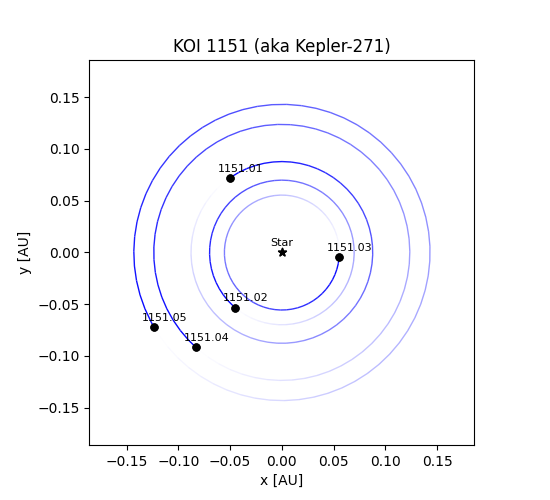
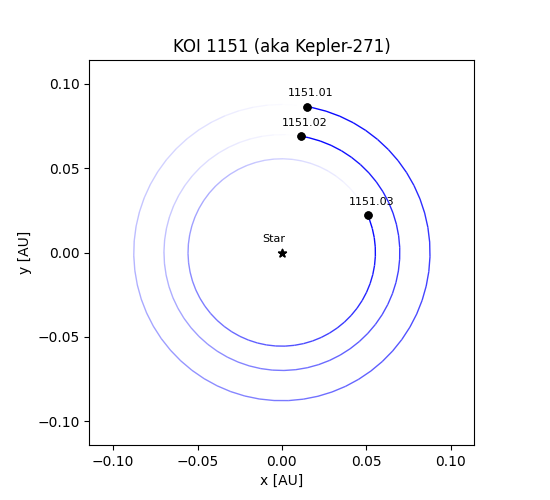
i don't know what's going on anymore and that's okay

diff --git a/Rebound1151.py b/Rebound1151.py
@@ -4,27 +4,33 @@ import matplotlib.pyplot as plt
 
 sim = rebound.Simulation()
 
-sim.units = ('yr','AU','Msun')
+Mearth = 1.0/332940.0
+GMsun = 1.3271244e20 # [m3 s-2]
+au = 149597870700.0 # [m]
+G = GMsun*(86400**2)/au**3 # au, days, Msun
+
+sim.units = ('days','AU','Msun')
+print(sim.G)
 
 #star/COM
 sim.add(m=0.83)
 #1151.03 // Start with innermost planet, go outwards
-sim.add(m=(0.672**3.7)/332946,P=5.24969846/365.2425,theta=8.875948944787911)
+sim.add(m=(0.672**3.7)/332946,P=5.24969846,theta=3.3755376844593314)
 #1151.02 // Period is in days, convert to years (Divide by 365.2425)
-sim.add(m=(0.948**3.7)/332946,P=7.41088006/365.2425,theta=8.45398854570443)
+sim.add(m=(0.948**3.7)/332946,P=7.41088006,theta=6.1176240098545245)
 #1151.01 // mass ≈ R_p ^ 3.7 in Earth masses if radius of planet < 1.7 earth radii, then divide by 332946 to convert to solar masses
-sim.add(m=(1.229**3.7)/332946, P=10.43545334/365.2425,theta=8.475163889910444)
+sim.add(m=(1.229**3.7)/332946, P=10.43545334,theta=1.5428143395216987)
 #1151.04
-sim.add(m=(0.759**3.7)/332946,P=17.45319318/365.2425,theta=-1.8488879509549183)
+#sim.add(m=(0.759**3.7)/332946,P=17.45319318/365.2425,theta=-1.8488879509549183)
 #1151.05
-sim.add(m=(0.801**3.7)/332946,P=21.72027051/365.2425,theta=4.824742488707509)
+#sim.add(m=(0.801**3.7)/332946,P=21.72027051/365.2425,theta=4.824742488707509)
 
 os = sim.orbits()
 print("n_i (in rad/days) = %6.3f, %6.3f, %6.3f" % (os[0].n,os[1].n,os[2].n))
 print("P_i (in days)     = %6.3f, %6.3f, %6.3f" % (os[0].P,os[1].P,os[2].P))
 
-Tfinal= 1
-Nout = 365 # number of printed out timesteps.
+Tfinal= 365
+Nout = 100 # number of printed out timesteps.
 
 phi = zeros(Nout)
 l1,l2,l3 = zeros(Nout), zeros(Nout), zeros(Nout)
@@ -56,7 +62,7 @@ fig = plt.figure(figsize=(9,7))
 ax = plt.subplot(111)
 ax.plot(times,phi_degrees, 'b', marker=".", markersize=.5)
 ax.set_xlabel("t (years) ", fontsize=24)
-ax.set_ylabel("\u03C6 (deg)", fontsize=24)
+ax.set_ylabel("l1 (?)", fontsize=24)
 ax.legend(fontsize=24)
 plt.savefig("phichart1151.png")
 

diff --git a/intialangle.py b/intialangle.py
@@ -1,8 +1,8 @@
 import math
 
-period = 335.5198537
-T0 = 609.194458
+period = 7.41088006
+T0 = 787.606156
 
-theta0 = (2*math.pi / period) + (T0 - 780)
+theta0 = -(2*math.pi / period) * (T0 - 780) + (2 * math.pi)
 print(theta0)
 
